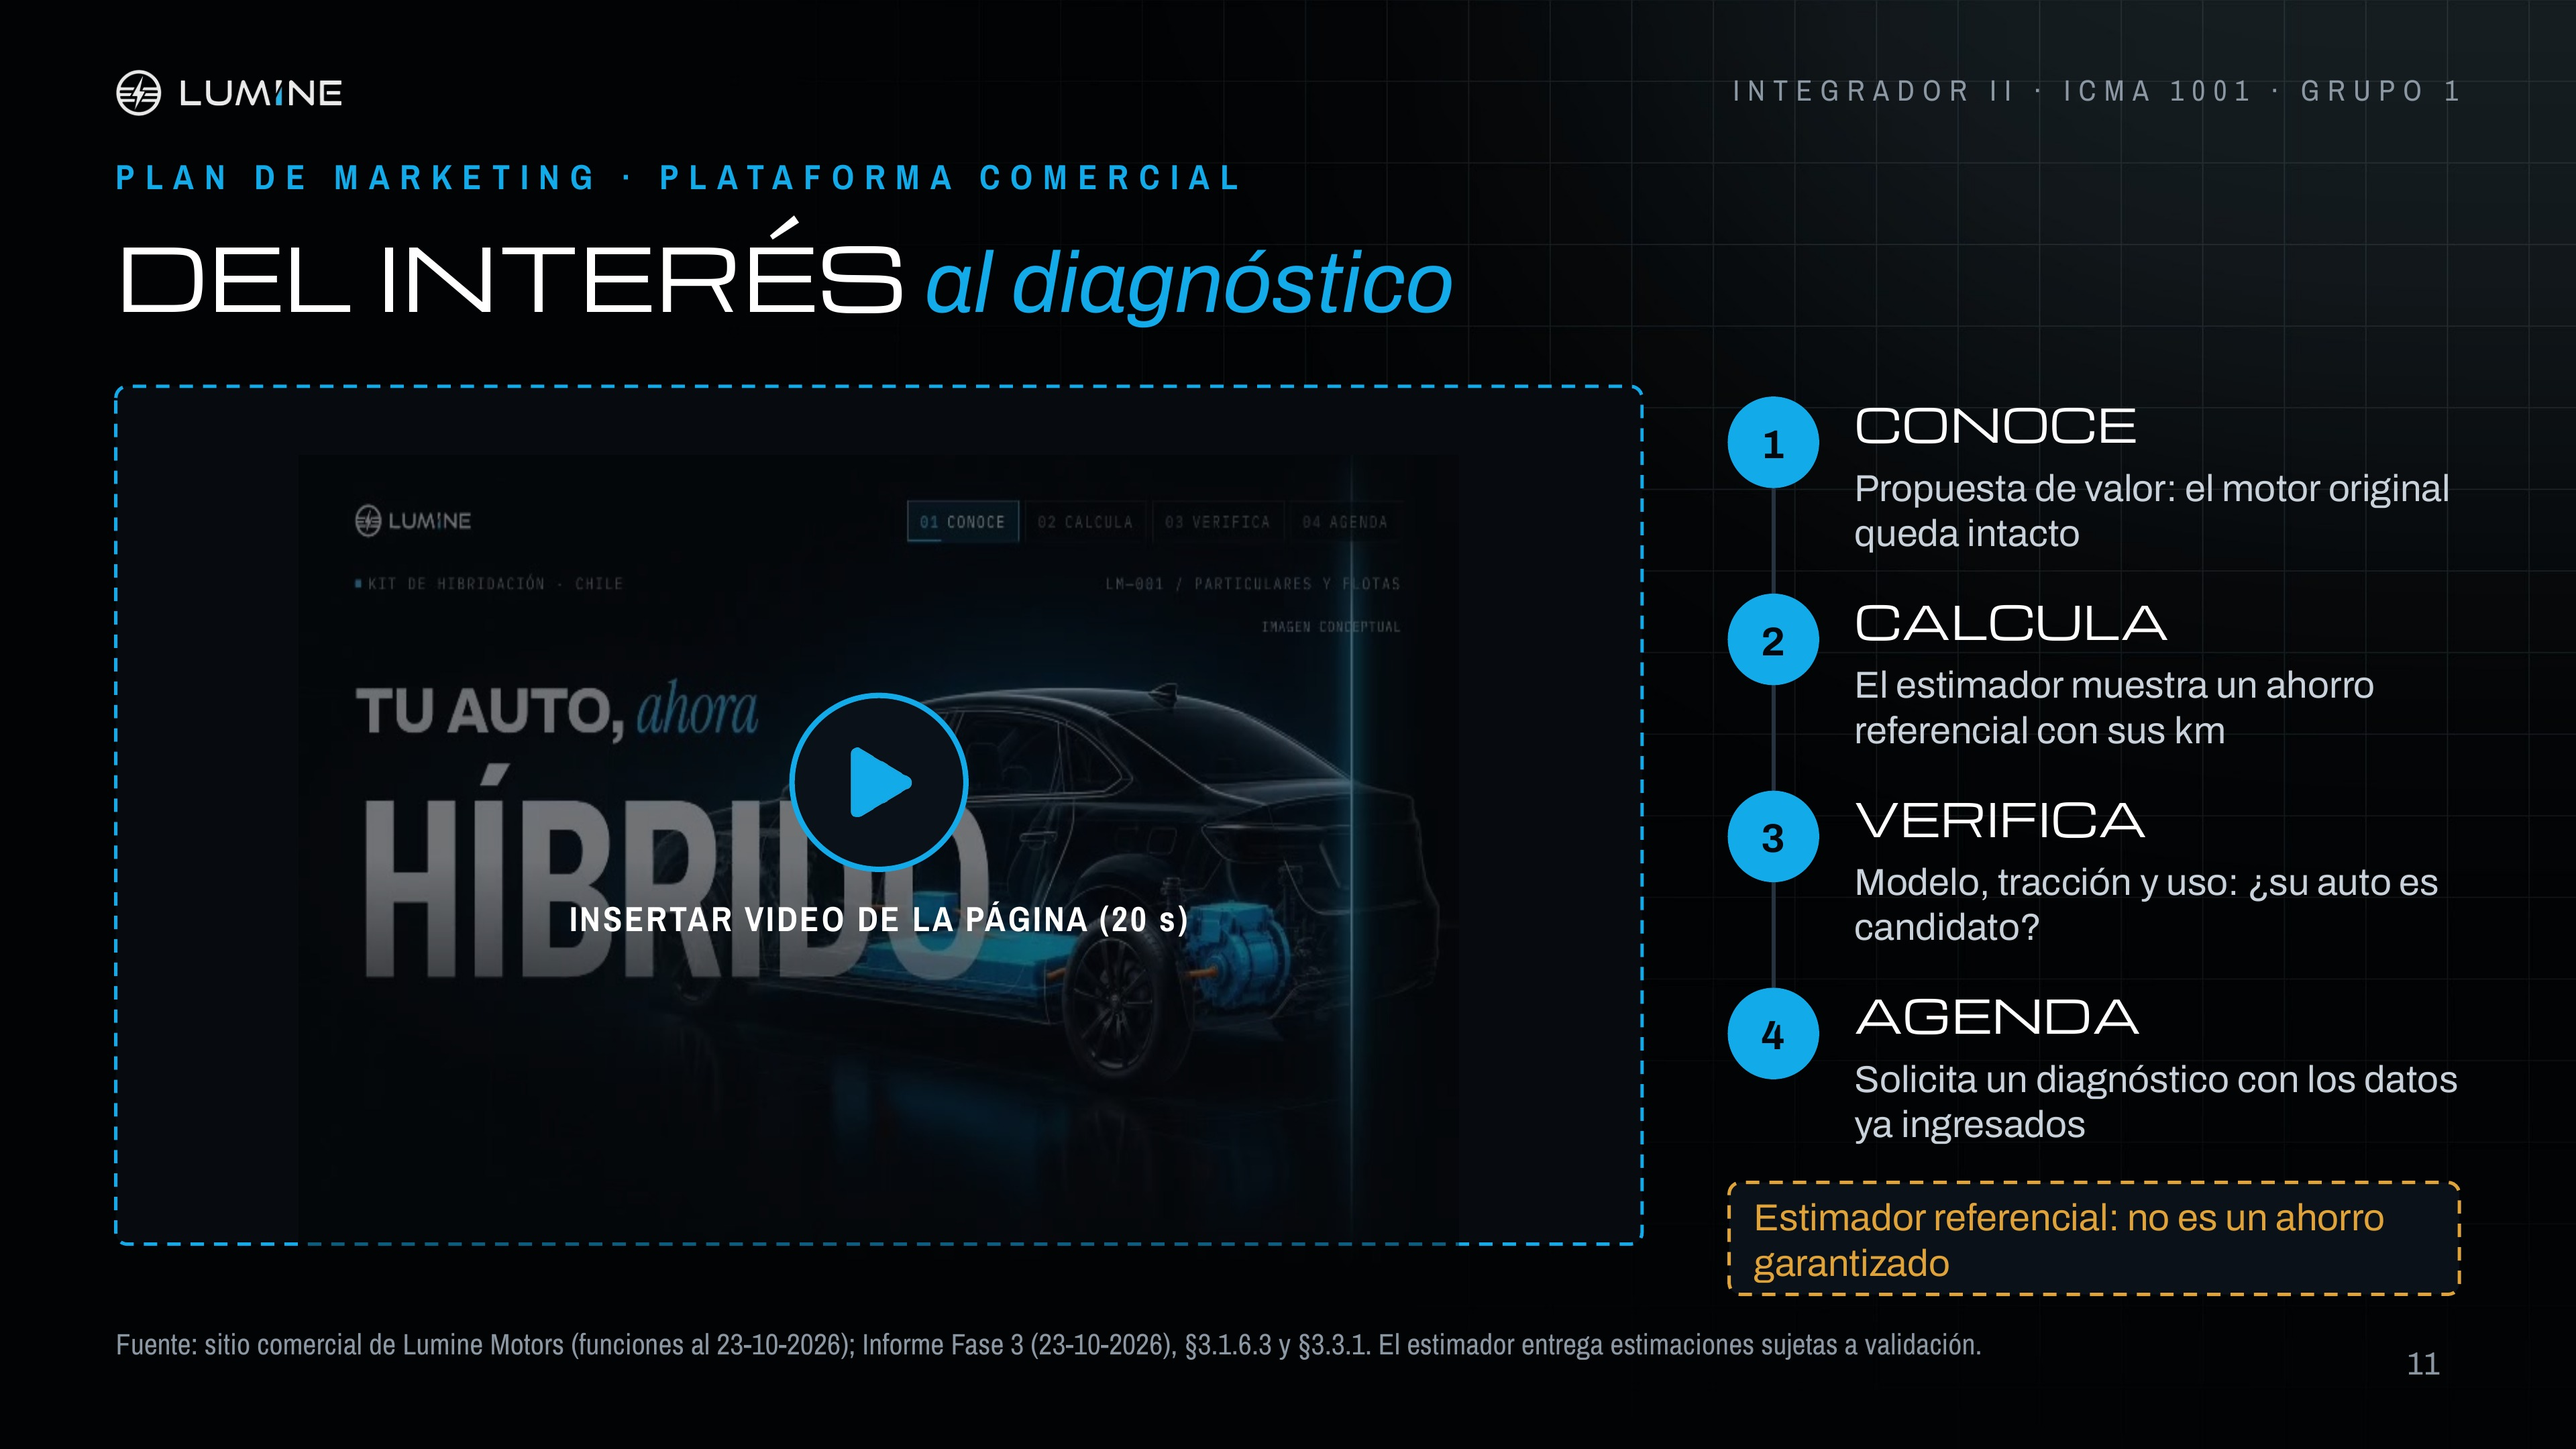
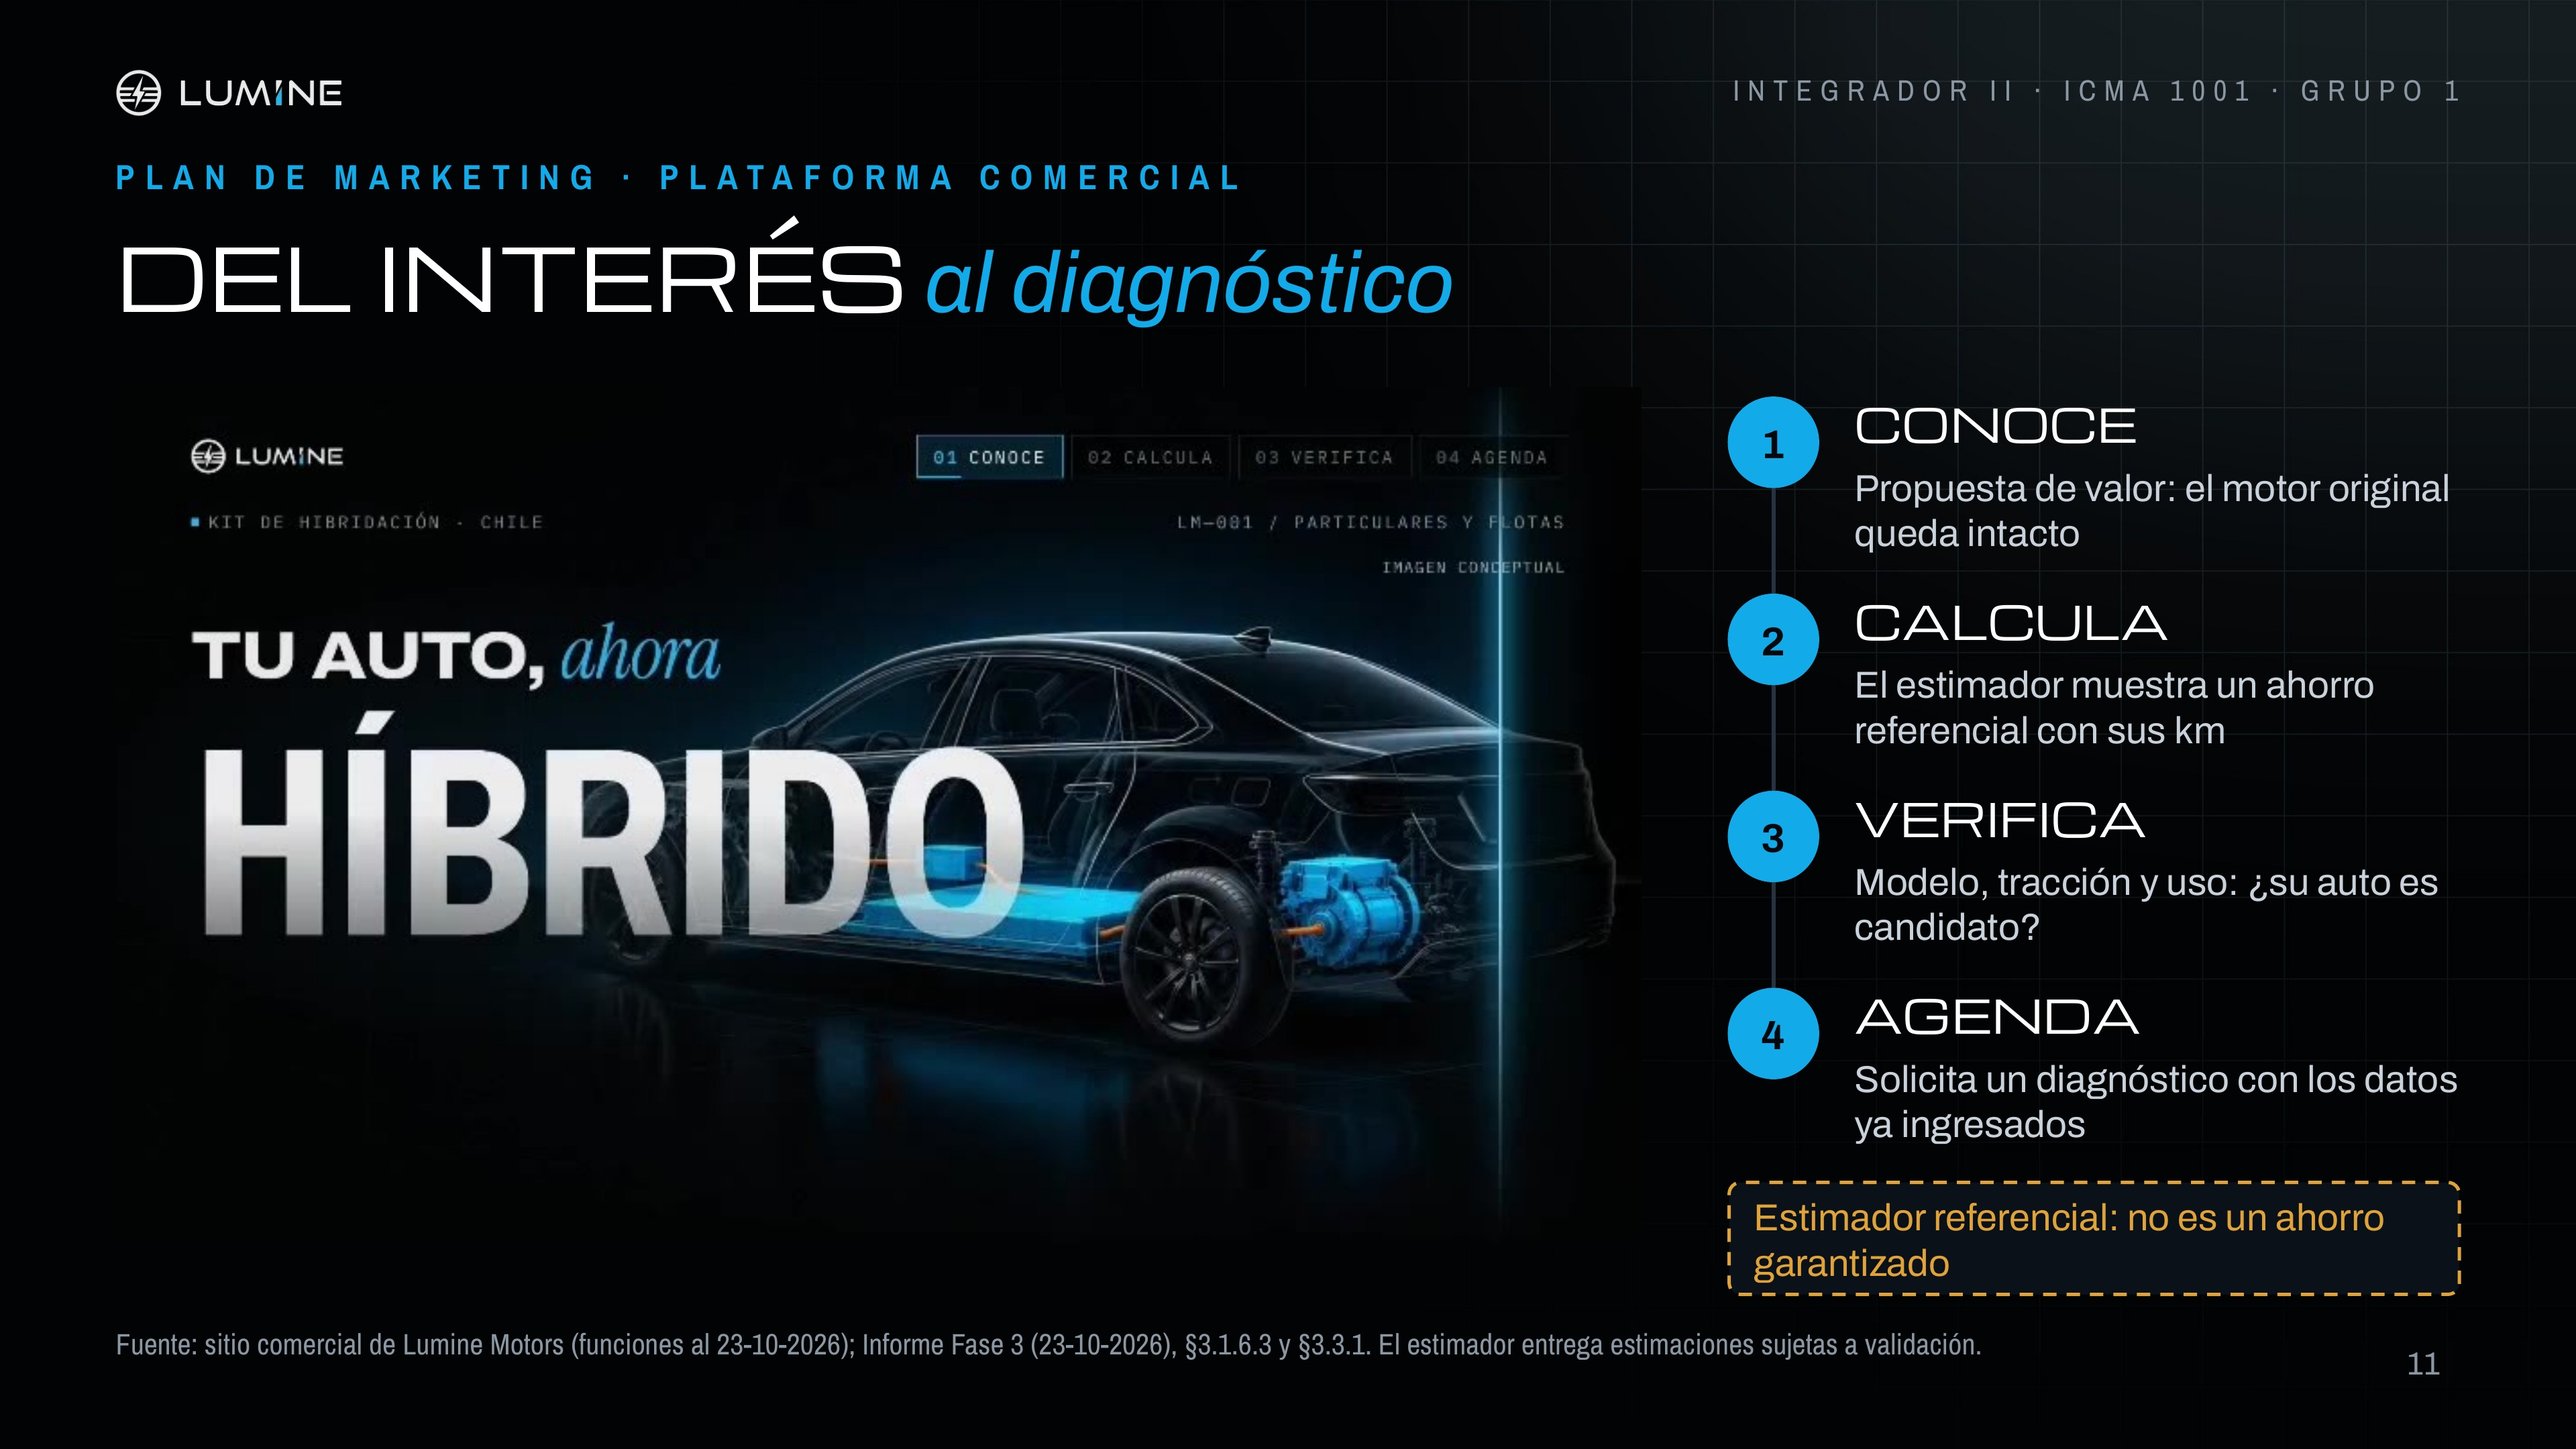
Presentaciones: láminas 11 y 17 con portada del video y marco en el video
Quita el recuadro «INSERTAR VIDEO» que se veía alrededor del video y le da el mismo
borde que las tarjetas de la presentación.

Claude-Session: https://claude.ai/code/session_01HYdJEqP92jmAxSD5Uo2HH5

diff --git a/lumine-presentaciones/engine/deck.css b/lumine-presentaciones/engine/deck.css
@@ -54,3 +54,6 @@ body.home { overflow: auto; display: grid; place-items: center; min-height: 100v
 .home a.card:hover { border-color: var(--cyan); }
 .home a.card b { color: var(--cyan); letter-spacing: .1em; font-size: 12px; display: block; margin-bottom: 6px; }
 .home a.card.off { opacity: .45; pointer-events: none; }
+
+/* Video sobre la lámina: mismo marco que las tarjetas de la presentación */
+#frame video { border-radius: 4px; box-shadow: 0 0 0 1px rgba(18, 170, 233, .45), 0 10px 30px rgba(0, 0, 0, .45); }
